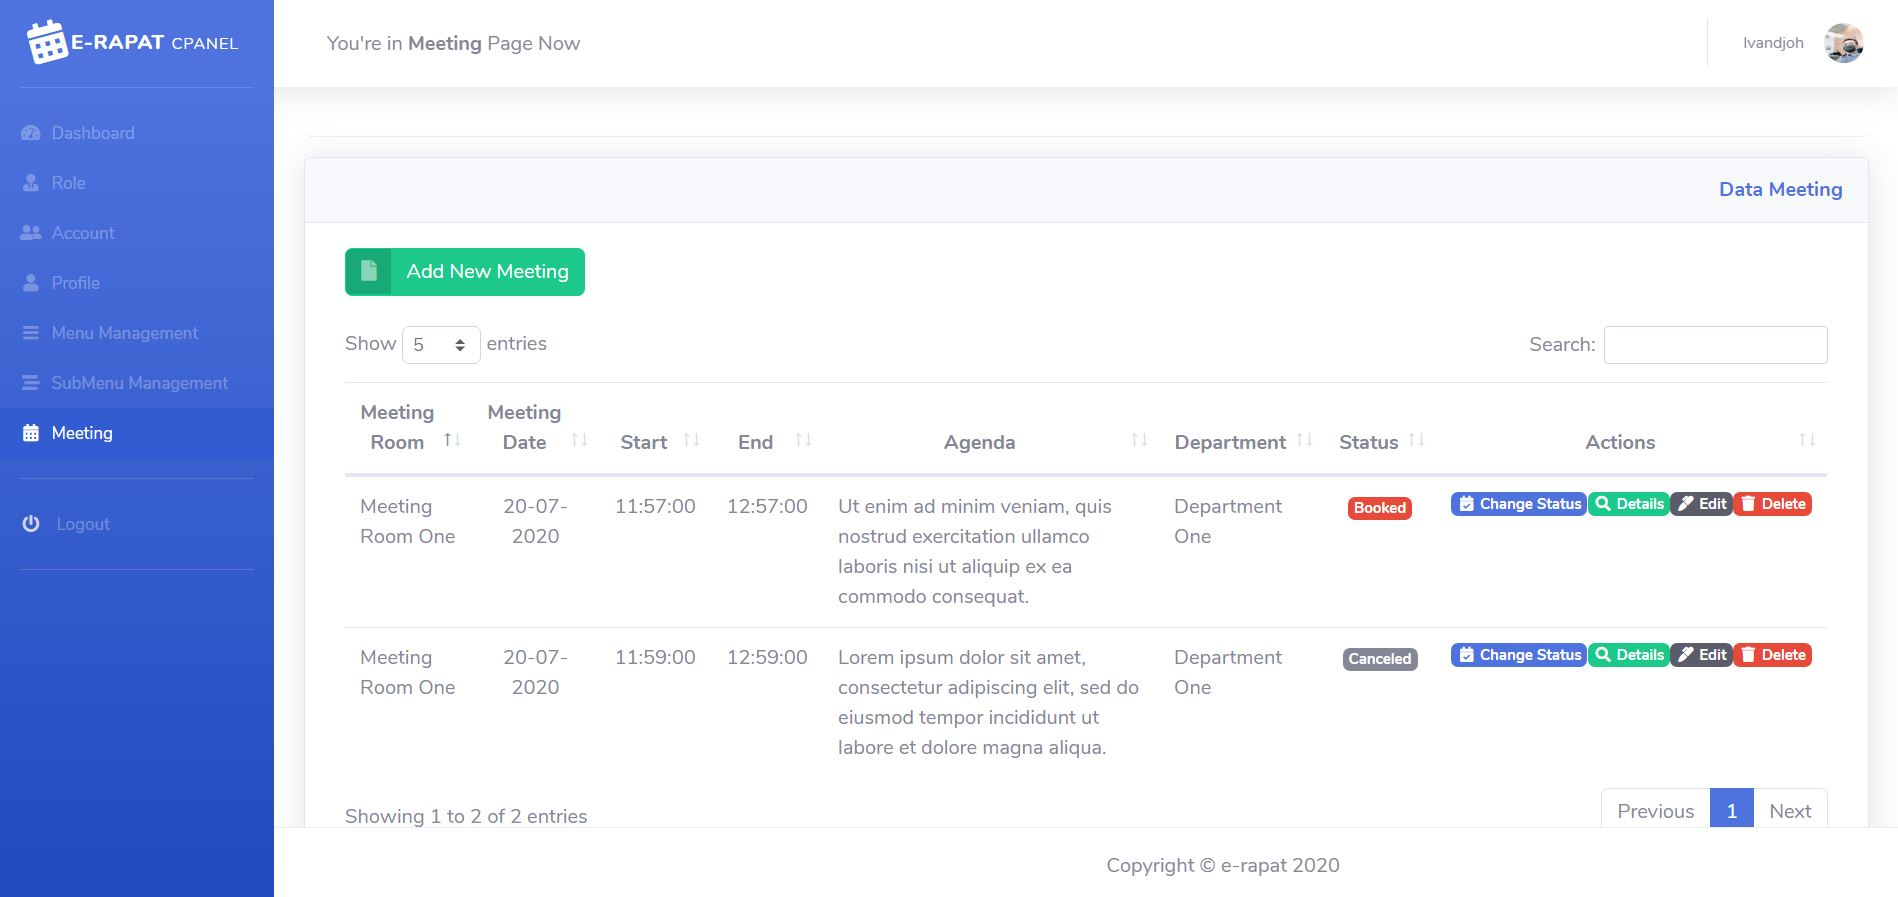
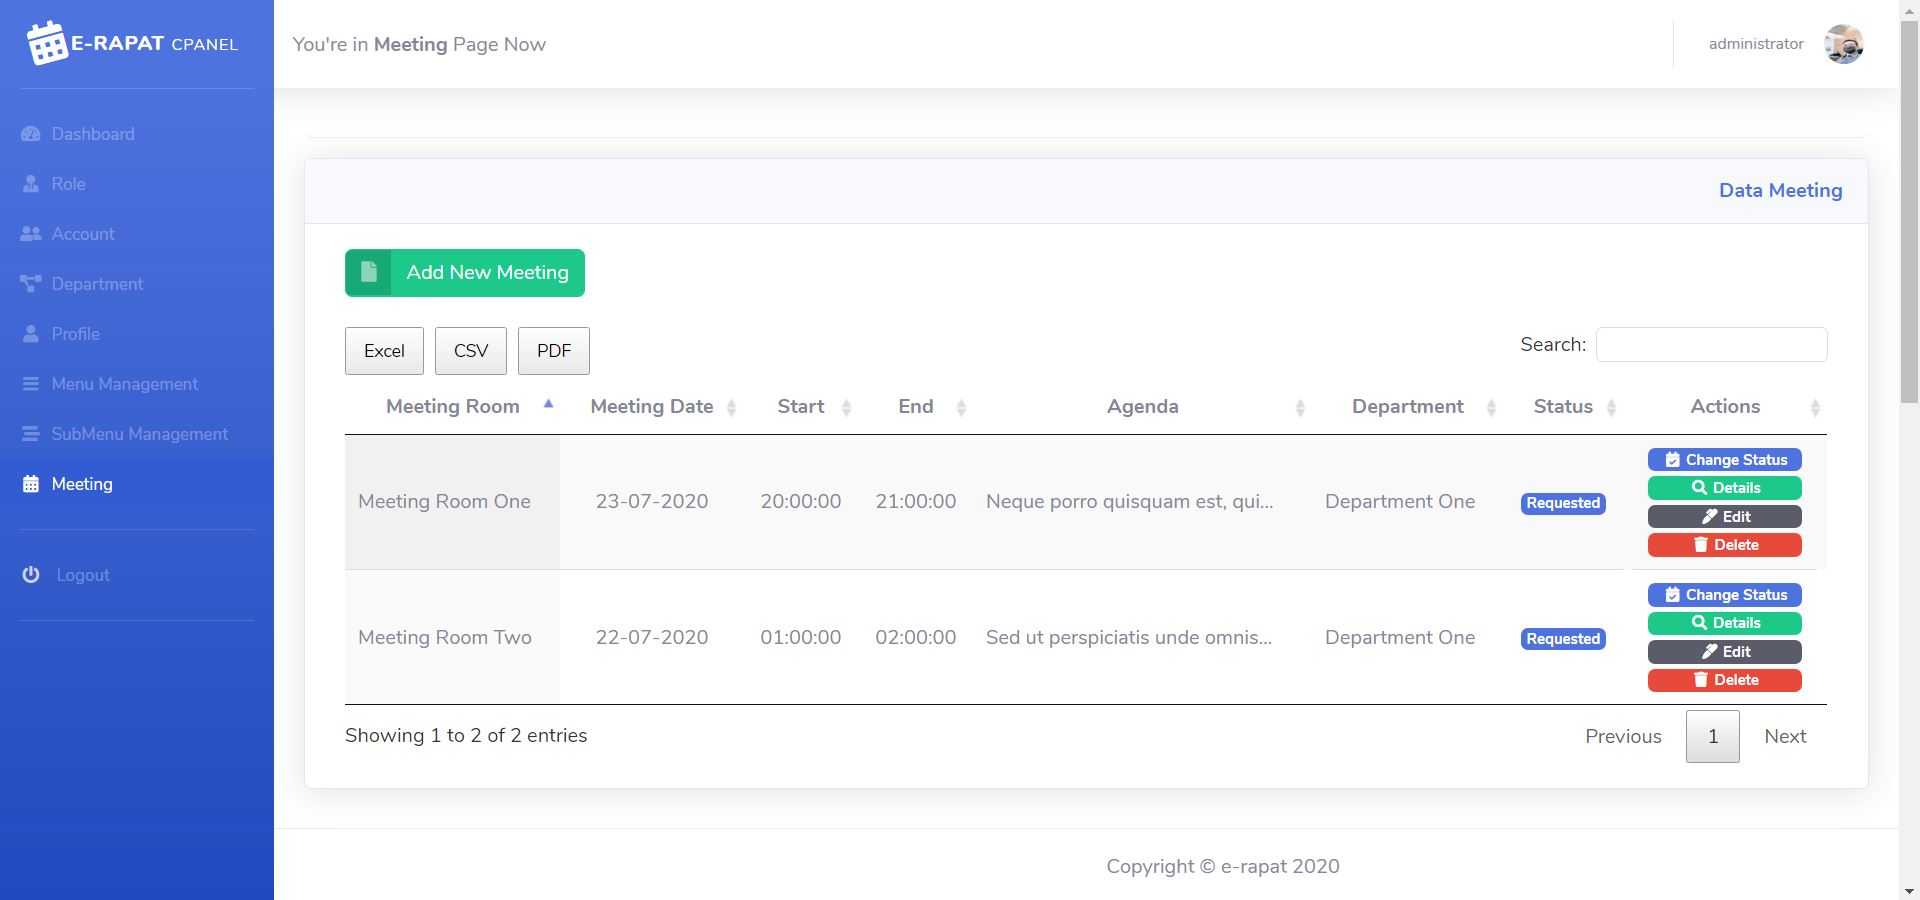
make admin dashboard view part 22 - added update function on meeting form

diff --git a/assets/js/customsjs/customsjs-demo.js b/assets/js/customsjs/customsjs-demo.js
@@ -1,0 +1,26 @@
+$(document).ready(function () {
+	// upload user profile
+	$(".custom-file-input").on("change", function () {
+		let fileName = $(this).val().split("\\").pop();
+		$(this).next(".custom-file-label").addClass("selected").html(fileName);
+	});
+
+	// Alerts system handler
+	$(".alert-success")
+		.fadeTo(2000, 500)
+		.slideUp(500, function () {
+			$(".alert-success").slideUp(500);
+		});
+
+	$(".alert-warning")
+		.fadeTo(3000, 500)
+		.slideUp(500, function () {
+			$(".alert-warning").slideUp(500);
+		});
+
+	$(".alert-danger")
+		.fadeTo(2000, 500)
+		.slideUp(500, function () {
+			$(".alert-danger").slideUp(500);
+		});
+});

diff --git a/assets/js/datetime/datetime-demo.js b/assets/js/datetime/datetime-demo.js
@@ -15,7 +15,7 @@ $(document).ready(function () {
 		forceParse: 0,
 	});
 
-	// time handler
+	// add start time handler
 	$("#start_time").datetimepicker({
 		timepicker: true,
 		datepicker: false,
@@ -24,7 +24,7 @@ $(document).ready(function () {
 		hours12: false,
 	});
 
-	// time handler
+	// add end time handler
 	$("#end_time").datetimepicker({
 		timepicker: true,
 		datepicker: false,

diff --git a/application/views/meeting/index.php b/application/views/meeting/index.php
@@ -179,35 +179,53 @@ foreach ($meeting as $a) :
     <div class="modal fade" id="meetingEdit<?= $id; ?>" data-backdrop="static" data-keyboard="false" tabindex="-1" role="dialog" aria-labelledby="staticBackdropLabel" aria-hidden="true">
         <div class="modal-dialog modal-md">
             <div class="modal-content">
-                <form action="<?= base_url('meeting/updatestatus'); ?>" method="POST">
+                <form action="<?= base_url('meeting/editmeeting'); ?>" method="POST">
                     <input type="hidden" name="<?php echo $this->security->get_csrf_token_name(); ?>" value="<?php echo $this->security->get_csrf_hash(); ?>" style="display: none">
                     <div class="modal-body">
-                        <p>Are you sure want to Change Status of <b><?= $place_name; ?> ?</b></p>
+
                         <div class="form-group row">
-                            <label for="place_id" class="col-sm-3 col-form-label">Status name : </label>
+                            <label for="place_id" class="col-sm-2 col-form-label">Place name</label>
                             <div class="col-sm-5">
-                                <select name="request_status" id="request_status" class="form-control">
-
-                                    <?php
-                                    if ($a['request_status'] == 0) { ?>
-                                        <option value="<?= $a['request_status']; ?>">Requested</option>
-                                    <?php } elseif ($a['request_status'] == 1) { ?>
-                                        <option value="<?= $a['request_status']; ?>">Booked</option>
-                                    <?php } elseif ($a['request_status'] == 2) { ?>
-                                        <option value="<?= $a['request_status']; ?>">Canceled</option>
-                                    <?php } ?>
-
-                                    <option value="0">Requested</option>
-                                    <option value="1">Booked</option>
-                                    <option value="2">Canceled</option>
+                                <select name="place_id" id="place_id" class="form-control">
+                                    <option value="<?= $a['place_id']; ?>"><?= $a['place_name']; ?></option>
+                                    <?php foreach ($place as $p) : ?>
+                                        <option value="<?= $p['id']; ?>">-- <?= $p['place_name']; ?> --</option>
+                                    <?php endforeach; ?>
                                 </select>
+                                <?= form_error('place_id', '<small class="text-danger">', '</small>'); ?>
                             </div>
                         </div>
-                    </div>
-                    <div class="modal-footer">
-                        <input type="hidden" name="id" value="<?= $id; ?>">
-                        <button type="button" class="btn btn-secondary" data-dismiss="modal">Cancel</button>
-                        <button type="submit" class="btn btn-danger">Confirm!</button>
+                        <div class="form-group row">
+                            <label for="inputPassword" class="col-sm-2 col-form-label">Agenda</label>
+                            <div class="col-sm-10">
+                                <input type="text" name="agenda" class="form-control form-control-user" id="agenda" value="<?= $a['agenda']; ?>" placeholder="Agenda">
+                                <?= form_error('agenda', '<small class="text-danger">', '</small>'); ?>
+                            </div>
+                        </div>
+                        <div class="form-group row">
+                            <label for="date_issues" class="col-sm-2 col-form-label">Meeting Date</label>
+                            <div class="col-sm-10">
+                                <input type="date" id="date_issues" name="date_issues" class="border" value="<?= $a['date_issues']; ?>">
+                                <?= form_error('Meeting Date', '<small class="text-danger">', '</small>'); ?>
+                            </div>
+                        </div>
+                        <div class="form-group row">
+                            <label for="start_time_edit" class="col-sm-2 col-form-label">Start Meeting</label>
+                            <div class="col-sm-10">
+                                <input type="time" id="start_time" name="start_time" class="border" value="<?= $a['start_time']; ?>">
+                            </div>
+                        </div>
+                        <div class="form-group row">
+                            <label for="end_time_edit" class="col-sm-2 col-form-label">End Meeting</label>
+                            <div class="col-sm-10">
+                                <input type="time" id="end_time" name="end_time" class="border" value="<?= $a['end_time']; ?>">
+                            </div>
+                        </div>
+                        <div class="modal-footer">
+                            <input type="hidden" name="id" value="<?= $id; ?>">
+                            <button type="button" class="btn btn-secondary" data-dismiss="modal">Cancel</button>
+                            <button type="submit" class="btn btn-primary">Submit</button>
+                        </div>
                     </div>
                 </form>
             </div>

diff --git a/application/views/layout/footer.php b/application/views/layout/footer.php
@@ -64,44 +64,28 @@
            <script src="<?= base_url('assets/'); ?>js/datatables/datatables-demo.js"></script>
            <script src="<?= base_url('assets/'); ?>js/datetime/datetime-demo.js"></script>
 
-
+           <!-- Customs scripts -->
+           <script src="<?= base_url('assets/'); ?>js/customsjs/customsjs-demo.js"></script>
            <script>
-               // upload user profile
-               $('.custom-file-input').on('change', function() {
-                   let fileName = $(this).val().split('\\').pop();
-                   $(this).next('.custom-file-label').addClass('selected').html(fileName);
-               });
-
-               $(".alert-success").fadeTo(2000, 500).slideUp(500, function() {
-                   $(".alert-success").slideUp(500);
-               });
-
-               $(".alert-warning").fadeTo(3000, 500).slideUp(500, function() {
-                   $(".alert-warning").slideUp(500);
-               });
-
-               $(".alert-danger").fadeTo(2000, 500).slideUp(500, function() {
-                   $(".alert-danger").slideUp(500);
-               });
-
                // change menu access for checkbox
-               var csrfName = '<?php echo $this->security->get_csrf_token_name(); ?>',
-                   csrfHash = '<?php echo $this->security->get_csrf_hash(); ?>';
-               $('.form-check-input').on('click', function() {
-                   const menuId = $(this).data('menu');
-                   const roleId = $(this).data('role');
+               var csrfName = "<?php echo $this->security->get_csrf_token_name(); ?>",
+                   csrfHash = "<?php echo $this->security->get_csrf_hash(); ?>";
+               $(".form-check-input").on("click", function() {
+                   const menuId = $(this).data("menu");
+                   const roleId = $(this).data("role");
                    var dataJson = {
                        [csrfName]: csrfHash,
                        menuId: menuId,
-                       roleId: roleId
+                       roleId: roleId,
                    };
                    $.ajax({
                        url: "<?= base_url('admin/changeaccess'); ?>",
-                       type: 'post',
+                       type: "post",
                        data: dataJson,
                        success: function() {
-                           document.location.href = "<?= base_url('admin/roleaccess/'); ?>" + roleId;
-                       }
+                           document.location.href =
+                               "<?= base_url('admin/roleaccess/'); ?>" + roleId;
+                       },
                    });
                });
            </script>

diff --git a/application/controllers/Meeting.php b/application/controllers/Meeting.php
@@ -107,6 +107,24 @@ class Meeting extends CI_Controller
         $this->load->view('layout/footer');
     }
 
+    public function editmeeting()
+    {
+        // get post id
+        $id = $this->input->post('id');
+        $data = array(
+            'place_id' => $this->input->post('place_id', true),
+            'agenda' => htmlspecialchars($this->input->post('agenda', true)),
+            'date_issues' => $this->input->post('date_issues', true),
+            'start_time' => $this->input->post('start_time', true),
+            'end_time' => $this->input->post('end_time', true),
+        );
+
+        // calling model to update data
+        $this->Meeting_model->update_meeting($id, $data);
+        $this->session->set_flashdata('messages', '<div class="alert alert-success alert-dismissible fade show" role="alert"><strong>Congradulation!</strong> Menu has been Updated!</div>');
+        redirect('meeting');
+    }
+
     public function meetingdownload($id)
     {
         // $this->load->helper('download');

diff --git a/application/models/Meeting_model.php b/application/models/Meeting_model.php
@@ -22,6 +22,12 @@ class Meeting_model extends CI_Model
         return $this->db->insert($this->meeting, $data);
     }
 
+    public function update_meeting($id, $data)
+    {
+        $this->db->where('id', $id);
+        $this->db->update($this->table, $data);
+    }
+
     public function delete_meeting($id)
     {
         // Running the Query
